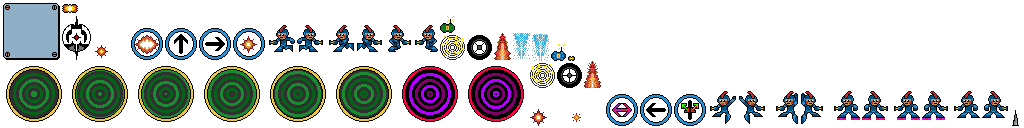
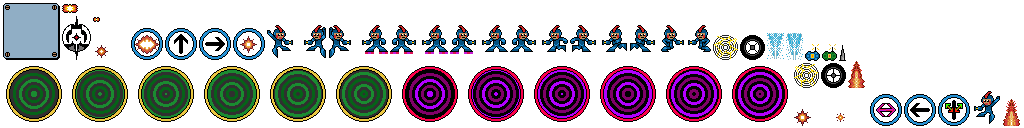
added new vacuum assets to animation

Changed region(s): [[0.25, 0.1875, 1.0, 1.0]]

diff --git a/core/src/com/udacity/gamedev/gigagal/util/Constants.java b/core/src/com/udacity/gamedev/gigagal/util/Constants.java
@@ -128,13 +128,17 @@ public final class Constants {
 
     // Vacuum
     public static final Vector2 VACUUM_CENTER = new Vector2(31, 31);
-    public static final float VACUUM_DURATION = 0.25f;
+    public static final float VACUUM_FRAME_DURATION = 0.1f;
     public static final int VACUUM_DAMAGE = 100;
     public static final Vector2 VACUUM_KNOCKBACK = new Vector2(100, 0);
     public static final float VACUUM_COLLISION_WIDTH = 25;
     public static final float VACUUM_COLLISION_HEIGHT = 25;
     public static final String VACUUM_SPRITE_1 = "vacuum-1";
     public static final String VACUUM_SPRITE_2 = "vacuum-2";
+    public static final String VACUUM_SPRITE_3 = "vacuum-3";
+    public static final String VACUUM_SPRITE_4 = "vacuum-4";
+    public static final String VACUUM_SPRITE_5 = "vacuum-5";
+    public static final String VACUUM_SPRITE_6 = "vacuum-6";
 
     // Ammo
     public static final float CHARGE_DURATION = 0.8f;

diff --git a/core/src/com/udacity/gamedev/gigagal/util/Assets.java b/core/src/com/udacity/gamedev/gigagal/util/Assets.java
@@ -233,8 +233,12 @@ public final class Assets implements Disposable, AssetErrorListener {
             Array<AtlasRegion> vacuumRegions = new Array<AtlasRegion>();
             vacuumRegions.add(atlas.findRegion(Constants.VACUUM_SPRITE_1));
             vacuumRegions.add(atlas.findRegion(Constants.VACUUM_SPRITE_2));
+            vacuumRegions.add(atlas.findRegion(Constants.VACUUM_SPRITE_3));
+            vacuumRegions.add(atlas.findRegion(Constants.VACUUM_SPRITE_4));
+            vacuumRegions.add(atlas.findRegion(Constants.VACUUM_SPRITE_5));
+            vacuumRegions.add(atlas.findRegion(Constants.VACUUM_SPRITE_6));
 
-            vacuum = new Animation(Constants.VACUUM_DURATION / vacuumRegions.size,
+            vacuum = new Animation(Constants.VACUUM_FRAME_DURATION,
                     vacuumRegions, PlayMode.NORMAL);
         }
     }
